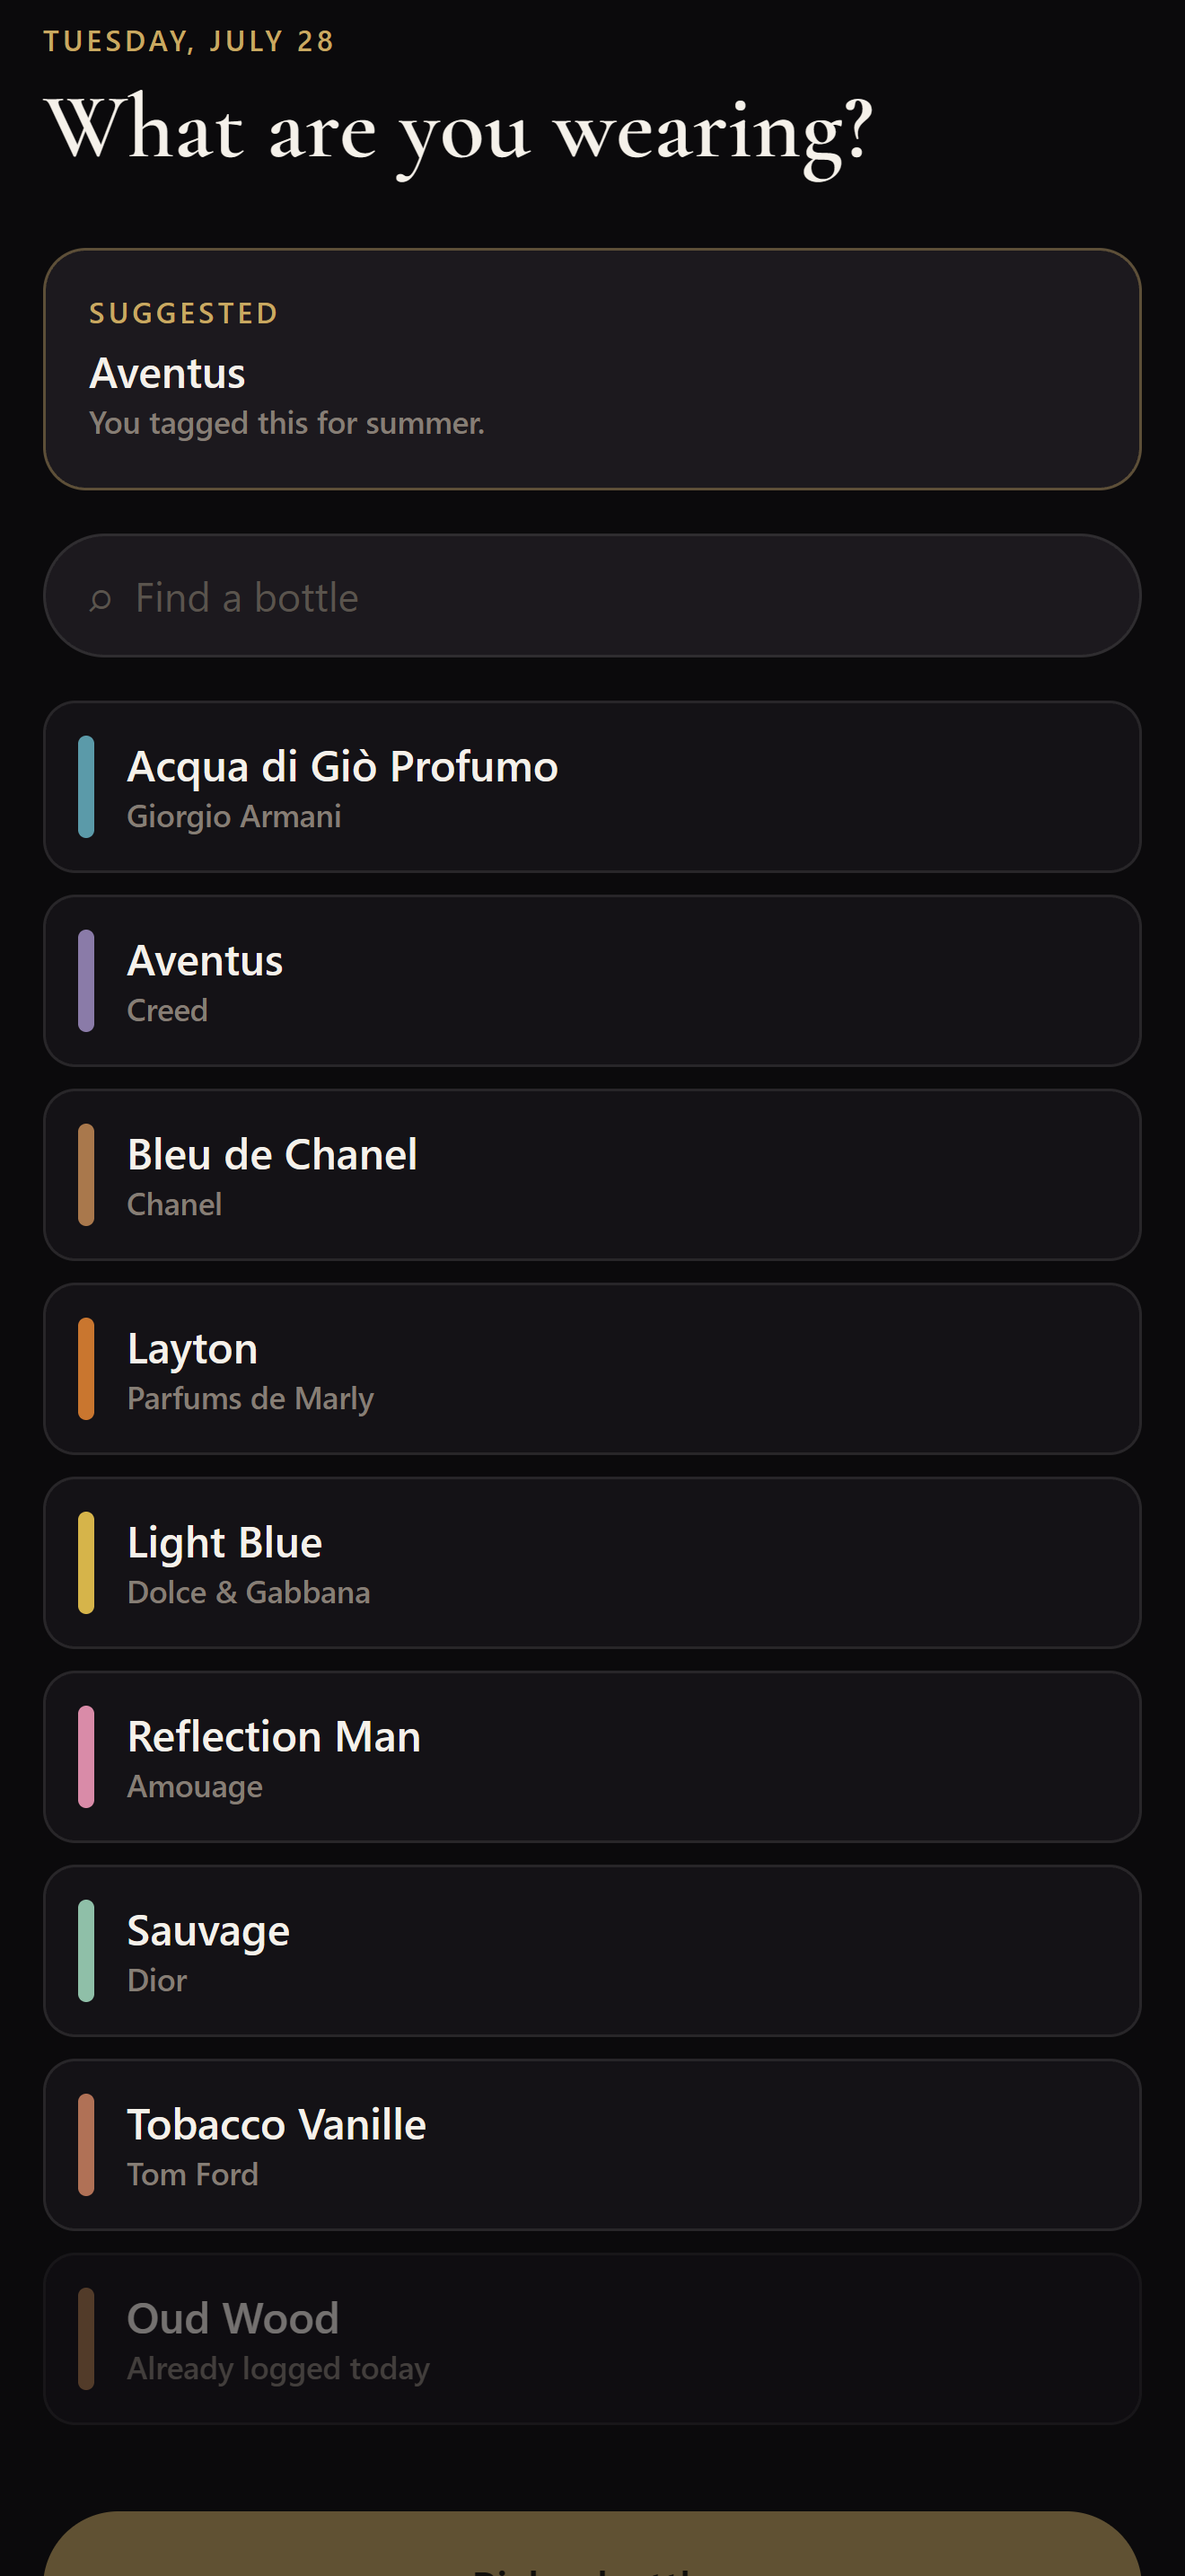
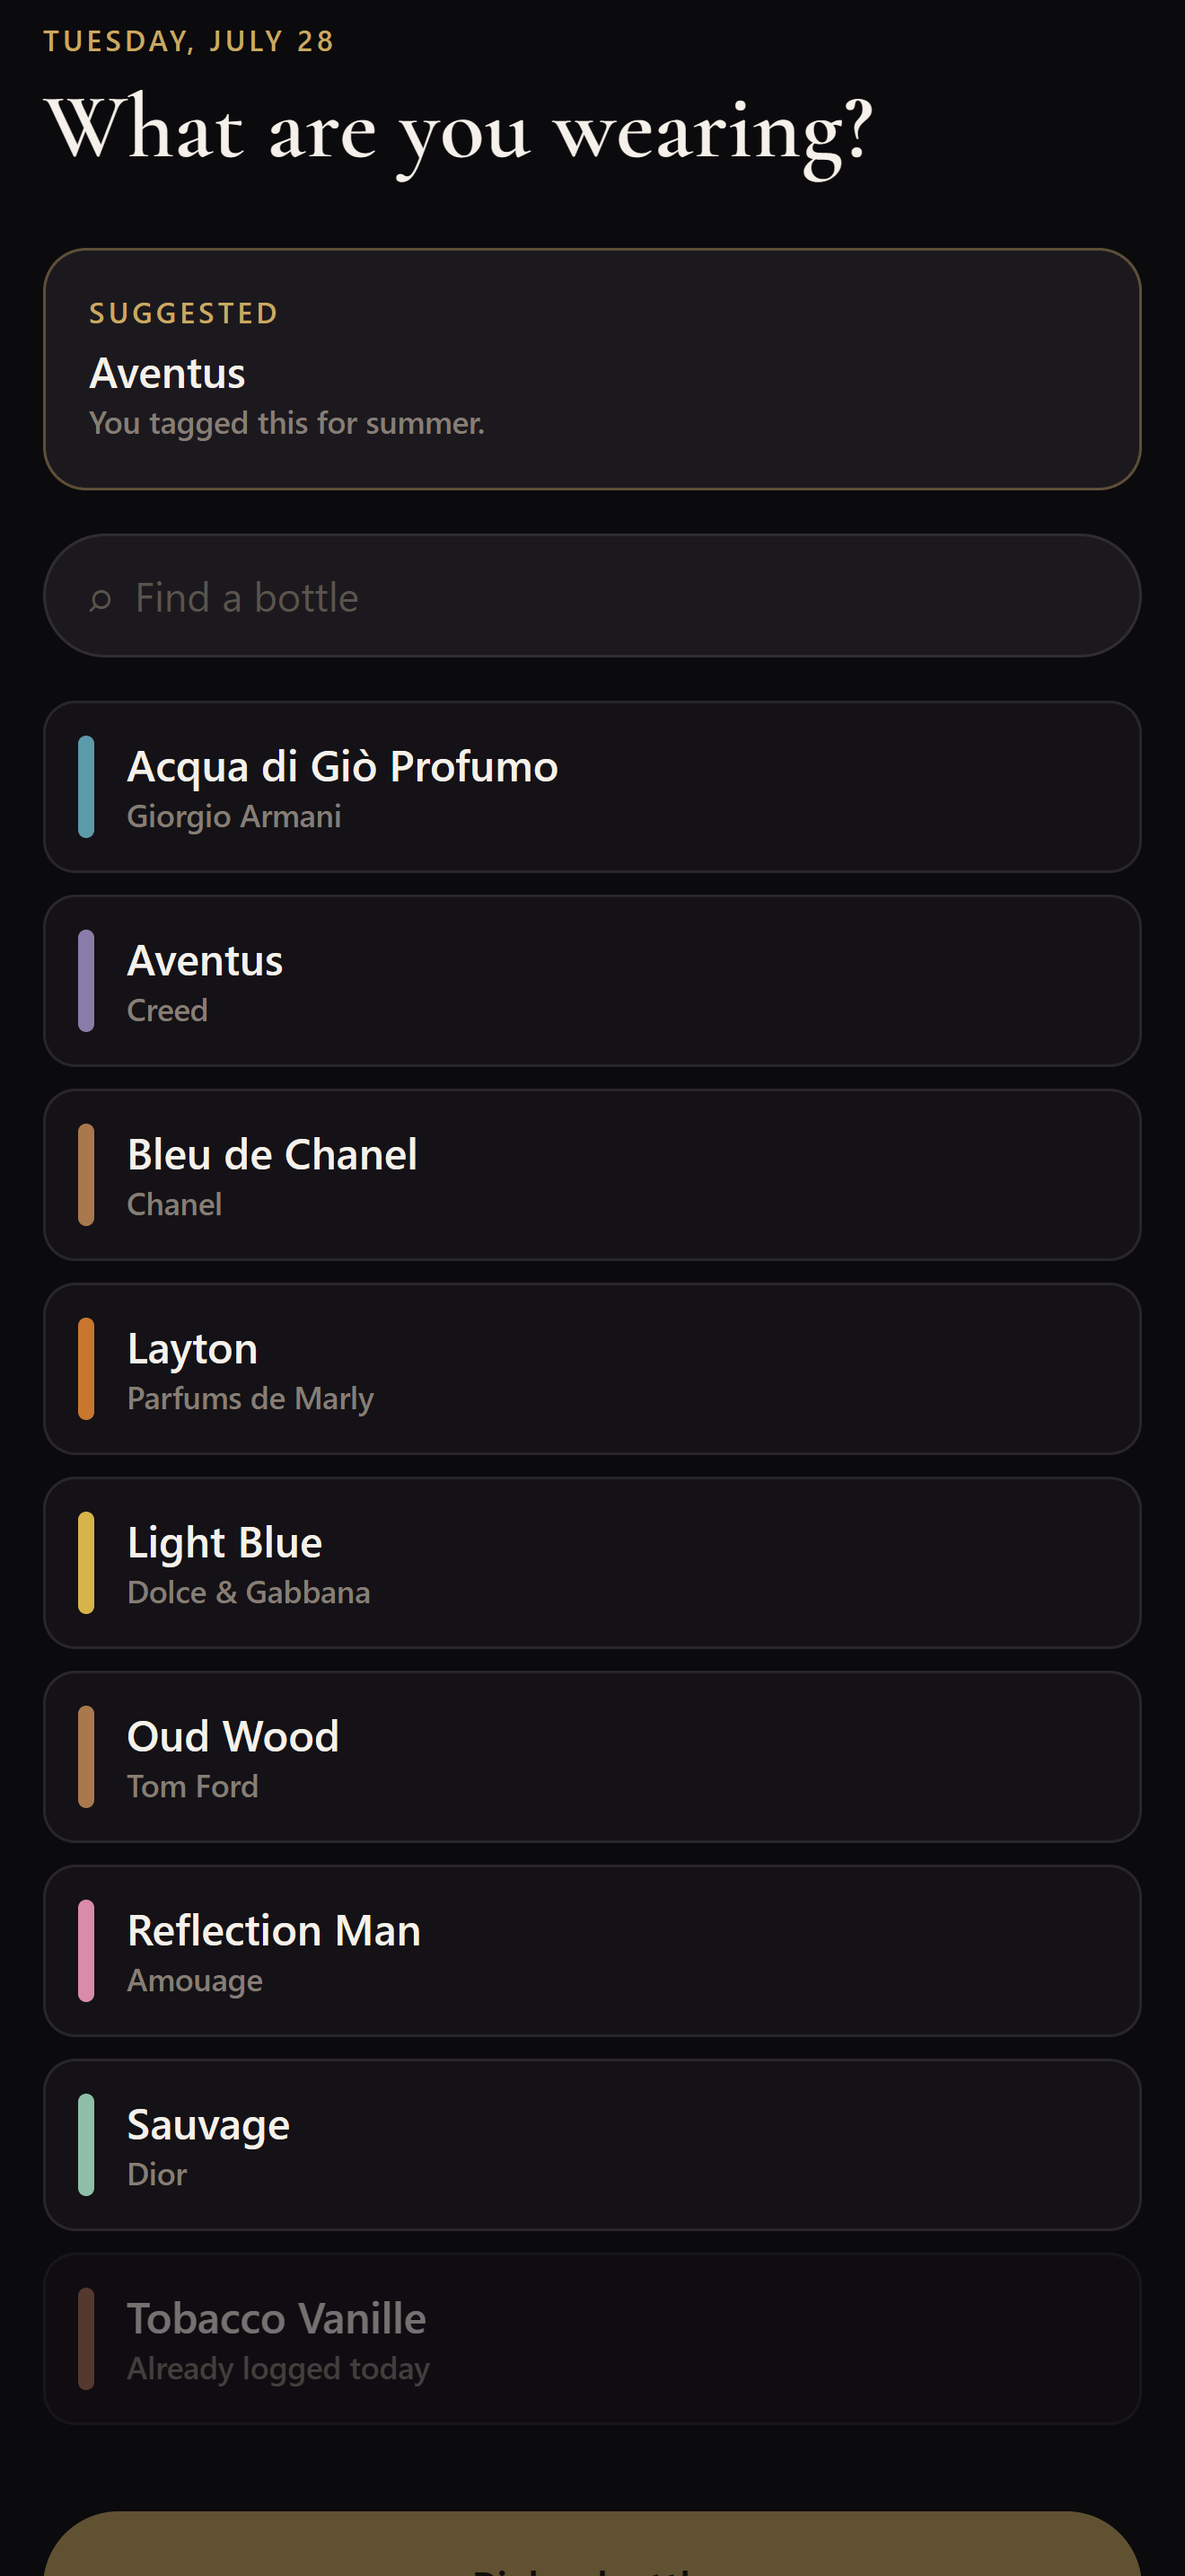
Seed screenshots in local time, and capture the daily pick
The store listing was missing its best screen. The daily pick only appears
before anything is logged today, which is correct behaviour, and the demo seed
logs an unbroken streak right up to today - so the one feature that answers
"why would I open this app" was invisible in every screenshot.

Fixing it turned up the real bug underneath. The seeder dated diary entries
with toISOString().slice(0, 10), which is UTC, while the app dates everything
in the user's own zone. src/lib/dates.ts exists entirely for that distinction.
West of Greenwich the seed was writing tomorrow: the most recent entry read as
a future date and the streak counted from the wrong end. Dates are now built
from local getFullYear/getMonth/getDate; timestamps stay UTC, because a
timestamp genuinely is an instant.

With that right, dropping today's entry produces the shot: Aventus, with the
two reasons the engine actually used - tagged for summer, five stars - and
"Something else" one tap away.

Reordered the listing accordingly. Only the first three images appear on the
App Store install sheet, so the reason to open it daily goes first, the shelf
second, and the paid payoff third. The share card is in at six.

diff --git a/scripts/screenshots.js b/scripts/screenshots.js
@@ -28,7 +28,24 @@ const STORAGE_KEY = 'scentkeep-store-v1';
 // Mirrors src/domain/fixtures.ts. Kept as literal JSON here because this script
 // runs in plain Node with no TS transform and no access to the app's modules.
 const DAY = 86400000;
-const iso = (offset) => new Date(Date.now() - offset * DAY).toISOString().slice(0, 10);
+
+/**
+ * A LOCAL calendar date, `YYYY-MM-DD`.
+ *
+ * Not `toISOString().slice(0, 10)`, which is UTC. The app dates every diary
+ * entry in the user's own zone (see src/lib/dates.ts — the whole module exists
+ * for this), so a UTC-dated seed is a day ahead of "today" anywhere west of
+ * Greenwich. That silently pushed the seeded streak off by one and made the
+ * most recent entry read as a future date.
+ */
+const iso = (offset) => {
+  const d = new Date(Date.now() - offset * DAY);
+  return `${d.getFullYear()}-${String(d.getMonth() + 1).padStart(2, '0')}-${String(
+    d.getDate(),
+  ).padStart(2, '0')}`;
+};
+
+/** A timestamp, which genuinely is an instant and so genuinely is UTC. */
 const stamp = (offset) => new Date(Date.now() - offset * DAY).toISOString();
 
 // name, house, family, ml, price, seasons, occasions, longevity, sillage, rating,
@@ -178,6 +195,9 @@ function buildState() {
 // --- capture targets ---------------------------------------------------------
 const SHOTS = [
   { name: '01-wardrobe', route: '/', wait: 2600 },
+  // The wardrobe again, before today has been logged, so the daily pick is on
+  // screen. It leads the store listing — it is the reason to open the app.
+  { name: '01b-today', route: '/', wait: 2600, unloggedToday: true },
   { name: '02-diary', route: '/diary', wait: 2200 },
   { name: '03-insights', route: '/stats', wait: 2200 },
   { name: '04-log-sotd', route: '/log-sotd', wait: 2200 },
@@ -215,6 +235,14 @@ async function main() {
 
       const state = buildState();
       if (shot.premium === false) state.state.isPremium = false;
+      // The daily pick only appears before anything is logged today, which is
+      // correct behaviour and exactly why the demo seed hides it — the seed
+      // logs an unbroken streak up to and including today. Dropping today's
+      // entry shows the feature without faking anything else about the diary.
+      if (shot.unloggedToday) {
+        const today = iso(0);
+        state.state.sotd = state.state.sotd.filter((e) => e.date !== today);
+      }
       const payload = shot.fresh ? null : JSON.stringify(state);
 
       // Seed BEFORE the app's first paint: land on the origin, write

diff --git a/store/aso-metadata.md b/store/aso-metadata.md
@@ -175,14 +175,26 @@ node scripts/screenshots.js --store
 Output: `store/screenshots/*.png` at **1320×2868** — App Store Connect's 6.9"
 iPhone requirement, which also satisfies the 6.5" slot and Play's minimums.
 
+Only the first three appear on the App Store install sheet, so the order is
+load-bearing: the reason to open the app daily comes first, the collection
+second, the payoff third.
+
 | Order | File | What it sells |
 |---|---|---|
-| 1 | `01-wardrobe.png` | The signature screen: the collection as a shelf |
-| 2 | `02-diary.png` | The daily loop, with streaks and the activity grid |
+| 1 | `01b-today.png` | The reason to open it: today's pick, explaining itself |
+| 2 | `01-wardrobe.png` | The signature screen: the collection as a shelf |
 | 3 | `03-insights.png` | The paid hook: value, most-worn, cost per wear |
-| 4 | `04-log-sotd.png` | How little effort a daily log takes |
+| 4 | `02-diary.png` | The daily loop, with streaks and the activity grid |
 | 5 | `05-bottle.png` | The depth behind a single bottle |
-| 6 | `06-paywall.png` | Honest, itemised Premium |
+| 6 | `09-share.png` | The card people post, with no prices on it |
+| 7 | `04-log-sotd.png` | How little effort a daily log takes |
+| 8 | `06-paywall.png` | Honest, itemised Premium |
+
+`01b-today` is the same wardrobe screen as `01`, seeded with today not yet
+logged — which is the only state the daily pick appears in. The seeder dates
+diary entries in the **local** zone, matching what the app writes; using
+`toISOString()` there puts every entry a day ahead west of Greenwich and the
+pick never shows.
 
 Captions are burned in by the store listing, not the image — Apple prefers
 screenshots that read without them.
